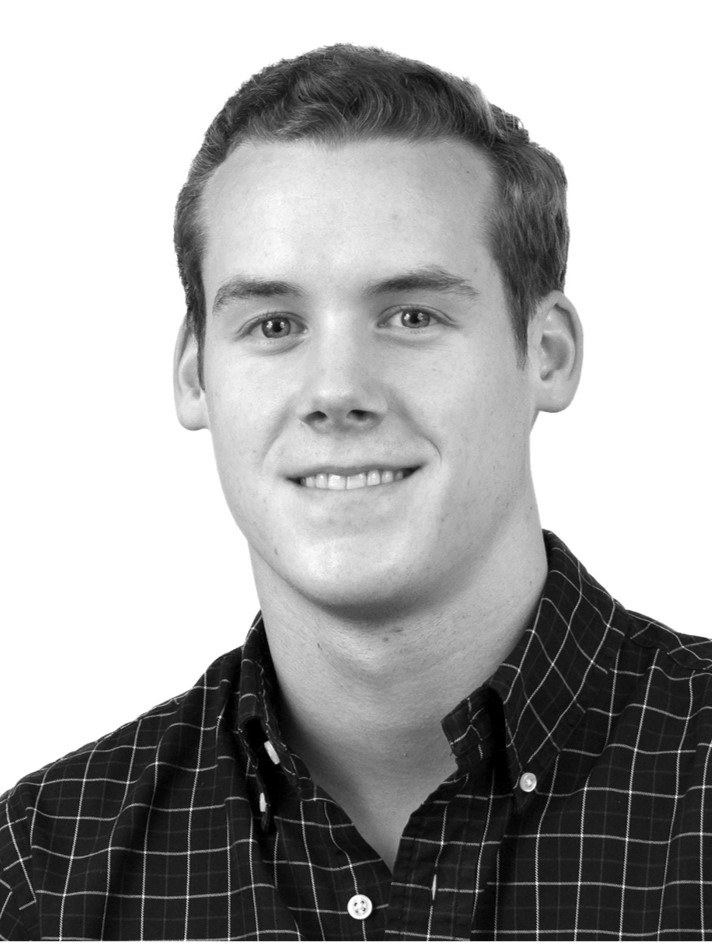
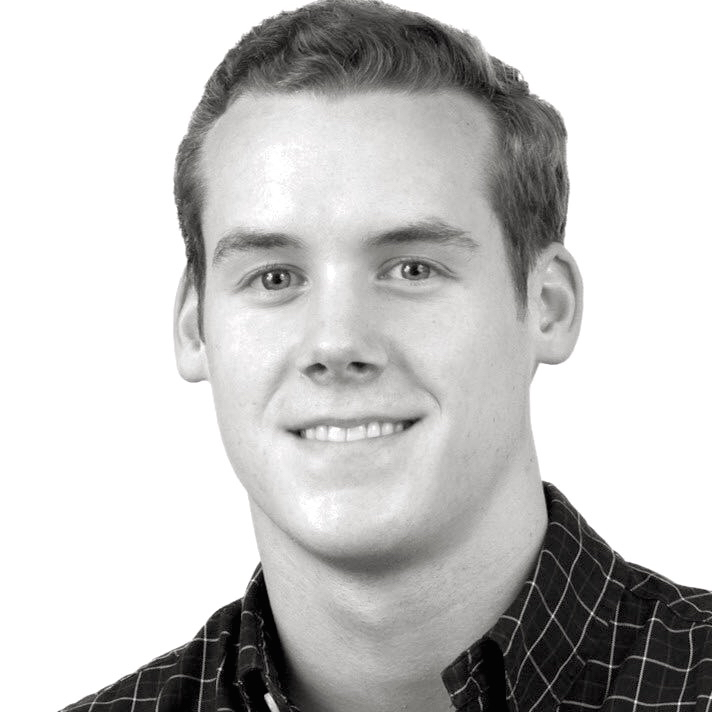
updates

diff --git a/ghsite_updates022416_sub/guarinohaskins/css/style.css b/ghsite_updates022416_sub/guarinohaskins/css/style.css
@@ -2299,12 +2299,6 @@ img {
   padding: 0;
   list-style: none;
 }
-/**
-  * People Team list placeholder
-  */
-#team-list-spaceholder {
-  visibility: hidden;
-}
 .app .page.people .team-list:before,
 .app .page.people .team-list:after {
   content: "";
@@ -2322,15 +2316,20 @@ img {
 @media (min-width: 1001px) {
   .app .page.people .team-list .team-list-item {
     float: left;
-    width: 25%;
+    width: 20%;
     padding-right: 10px;
     margin-bottom: 30px;
   }
 }
-@media (max-width: 1000px) {
+@media (max-width: 365px) {
+  .app .page.people .team-list {
+    height: 100em;
+    background-color: white;
+    float: none;
+  }
   .app .page.people .team-list .team-list-item {
-    float: left;
-    width: 100%;
+    /*float: left;*/
+    width: 40%;
     padding-right: 0;
     margin-bottom: 30px;
   }
@@ -2343,6 +2342,27 @@ img {
   width: 85%;
   border-radius: 0.2em;
 }
+@media (max-width: 1000px) {
+  .app .page.people .team-list {
+    height: 100em;
+    background-color: white;
+  }
+  .app .page.people .team-list .team-list-item {
+    float: left;
+    width: 40%;
+    padding-right: 0;
+    margin-bottom: 30px;
+  }
+  #team-list-spaceholder {
+    display: none;
+  }
+}
+.app .page.people .team-list .team-list-item .team-list-img {
+  margin-bottom: 0.2em;
+  width: 85%;
+  border-radius: 0.2em;
+}
+
 @media (max-width: 1000px) {
   .app .page.people .team-list .team-list-item .team-list-img {
     display: block;

diff --git a/ghsite_updates022416_sub/guarinohaskins/index.html b/ghsite_updates022416_sub/guarinohaskins/index.html
@@ -318,7 +318,7 @@
           <li class="team-list-item"><img class="team-list-img" src="img/people-tn-tristan.png">
             <div class="team-list-label">Tristan Bernard,<br> Account Service</div>
           </li>
-          <li class="team-list-item"><img class="team-list-img" src="img/people-tn-will.png">
+          <li class="team-list-item"><img class="team-list-img" src="img/people-tn-will.jpg">
             <div class="team-list-label">Will Bishop,<br>Digital</div>
           </li>
           <li class="team-list-item"><img class="team-list-img" src="img/people-tn-need.png">
@@ -333,7 +333,7 @@
           <li class="team-list-item"><img class="team-list-img" src="img/people-tn-1.png">
             <div class="team-list-label">John Guarino,<br>President</div>
           </li>
-          <li class="team-list-item"><img class="team-list-img" src="img/people-tn-need.png">
+          <li class="team-list-item"><img class="team-list-img" src="img/people-tn-alex.jpg">
             <div class="team-list-label">Alex Harper,<br>Account Service</div>
           </li>
           <li class="team-list-item"><img class="team-list-img" src="img/people-tn-2.png">
